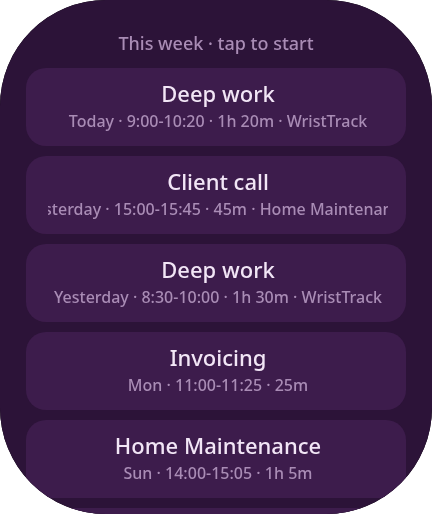
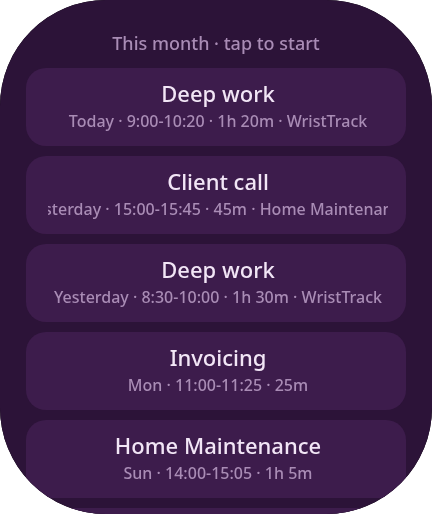
Widen the history to the past month
HISTORY_DAYS goes to 30 and the row cap to 50, so a month is actually
visible; the cap bounds what crosses Bluetooth and what the watch
stores, not what Toggl is asked for. The request budget is untouched -
the wider window is the same single read on the same six-hour lazy
clock, so a day of glances still costs 36 requests.

Past the last week a weekday name would repeat inside the window, so
dayLabel switches to a date there: 'Jul 24 · 9:15-11:15 · 2h'.

Changed region(s): [[0.2708, 0.0623, 0.7523, 0.1245]]

diff --git a/test/toggl.test.js b/test/toggl.test.js
@@ -119,7 +119,8 @@ test('a recording row says when it ran and for how long', () => {
     [
       { description: 'Review', project_id: 20, project_name: 'App', workspace_id: 10, duration: 4800, start: '2026-08-12T09:00:00Z' },
       { description: '', project_id: 20, project_name: 'App', workspace_id: 10, duration: 300, start: '2026-08-11T09:00:00Z' },
-      { description: 'Ship', workspace_id: 10, duration: 7200, start: '2026-08-07T09:00:00Z' }
+      { description: 'Ship', workspace_id: 10, duration: 7200, start: '2026-08-07T09:00:00Z' },
+      { description: 'Plan', workspace_id: 10, duration: 3600, start: '2026-07-20T09:00:00Z' }
     ],
     account,
     {},
@@ -128,12 +129,13 @@ test('a recording row says when it ran and for how long', () => {
 
   // With a description the project still gets named; without one the project
   // is already the first line, so the second line does not repeat it. The
-  // tracked range sits between the day and the length.
+  // tracked range sits between the day and the length, and past the last
+  // week the day becomes a date, since weekday names repeat inside a month.
   assert.deepEqual(
     history.map((item) => item.subtitle),
-    ['Today · 9:00-10:20 · 1h 20m · App', 'Yesterday · 9:00-9:05 · 5m', 'Fri · 9:00-11:00 · 2h']
+    ['Today · 9:00-10:20 · 1h 20m · App', 'Yesterday · 9:00-9:05 · 5m', 'Fri · 9:00-11:00 · 2h', 'Jul 20 · 9:00-10:00 · 1h']
   )
-  assert.deepEqual(history.map((item) => item.label), ['Review', 'App', 'Ship'])
+  assert.deepEqual(history.map((item) => item.label), ['Review', 'App', 'Ship', 'Plan'])
   // The fields a re-start needs survive alongside the display ones.
   assert.equal(history[0].start, '2026-08-12T09:00:00Z')
   assert.equal(history[0].duration, 4800)
@@ -150,6 +152,9 @@ test('durations and days read at wrist size', () => {
   assert.equal(dayLabel(Date.parse('2026-08-12T01:00:00Z'), now), 'Today')
   assert.equal(dayLabel(Date.parse('2026-08-11T23:00:00Z'), now), 'Yesterday')
   assert.equal(dayLabel(Date.parse('2026-08-09T12:00:00Z'), now), 'Sun')
+  // Beyond the past week a weekday would repeat, so the date takes over.
+  assert.equal(dayLabel(Date.parse('2026-08-01T12:00:00Z'), now), 'Aug 1')
+  assert.equal(dayLabel(Date.parse('2026-07-20T12:00:00Z'), now), 'Jul 20')
 
   assert.equal(clockLabel(Date.parse('2026-08-12T09:05:00Z')), '9:05')
   assert.equal(clockLabel(Date.parse('2026-08-12T17:30:00Z')), '17:30')
@@ -264,9 +269,9 @@ test('asks Toggl for an explicit history window with inline project names', () =
   // end_date is exclusive, so today's entries need tomorrow as the bound.
   assert.match(path, /end_date=2026-08-01/)
 
-  // The watch shows the past week, so that is what is asked for by default.
-  const week = recentEntriesPath(Date.parse('2026-07-31T06:00:00Z'))
-  assert.match(week, /start_date=2026-07-24/)
+  // The watch shows the past month, so that is what is asked for by default.
+  const month = recentEntriesPath(Date.parse('2026-07-31T06:00:00Z'))
+  assert.match(month, /start_date=2026-07-01/)
 })
 
 test('drops deleted and running entries from the history', () => {

diff --git a/app-side/toggl.js b/app-side/toggl.js
@@ -55,7 +55,7 @@ export function asArray(value) {
   return value && Array.isArray(value.items) ? value.items : []
 }
 
-export const HISTORY_DAYS = 7
+export const HISTORY_DAYS = 30
 
 const DAY_MS = 24 * 60 * 60 * 1000
 const isoDate = (ms) => new Date(ms).toISOString().slice(0, 10)
@@ -118,10 +118,12 @@ export function formatDuration(seconds) {
 }
 
 const WEEKDAYS = ['Sun', 'Mon', 'Tue', 'Wed', 'Thu', 'Fri', 'Sat']
+const MONTHS = ['Jan', 'Feb', 'Mar', 'Apr', 'May', 'Jun', 'Jul', 'Aug', 'Sep', 'Oct', 'Nov', 'Dec']
 
 /**
- * Which day a recording belongs to, in the phone's local time. The list only
- * reaches a week back, so a weekday name is never ambiguous for long.
+ * Which day a recording belongs to, in the phone's local time. Inside the
+ * past week a weekday name reads naturally and cannot repeat; the month
+ * reaches further back than that, so older recordings get the date instead.
  */
 export function dayLabel(startMs, now = Date.now()) {
   const start = new Date(startMs)
@@ -129,7 +131,8 @@ export function dayLabel(startMs, now = Date.now()) {
   midnight.setHours(0, 0, 0, 0)
   if (startMs >= midnight.getTime()) return 'Today'
   if (startMs >= midnight.getTime() - DAY_MS) return 'Yesterday'
-  return WEEKDAYS[start.getDay()]
+  if (startMs >= midnight.getTime() - 6 * DAY_MS) return WEEKDAYS[start.getDay()]
+  return `${MONTHS[start.getMonth()]} ${start.getDate()}`
 }
 
 /** A wall-clock stamp in the phone's local time: "9:05", "17:30". */
@@ -248,10 +251,13 @@ export function reduceAccount(me) {
   }
 }
 
-export const HISTORY_LIMIT = 20
+// Caps what crosses Bluetooth and what the watch stores, not what Toggl is
+// asked for: a busy month can outgrow it, in which case the oldest rows are
+// the ones that fall off.
+export const HISTORY_LIMIT = 50
 
 /**
- * The watch shows the past week of recordings, newest first, the way Toggl
+ * The watch shows the past month of recordings, newest first, the way Toggl
  * already returns /me/time_entries. Each row is one recording, duplicates and
  * all — the list is a history, not a menu of distinct jobs — and tapping one
  * starts that job again. The configured default is only used as a fallback

diff --git a/app-side/cache.js b/app-side/cache.js
@@ -28,7 +28,7 @@ export const REFRESH_LIMIT = HOURLY_LIMIT - MUTATION_RESERVE
 export const STATUS_MAX_AGE = 12 * 1000
 
 /**
- * The week of history barely moves, and the actions that change it from the
+ * The month of history barely moves, and the actions that change it from the
  * watch's side — stop, re-label — update the cached copy locally, so it can
  * be old without being wrong. When it does expire it is re-read lazily: the
  * cached copy is served immediately and the re-read happens in the
@@ -135,7 +135,7 @@ export const MERGE_GRACE_MS = 10 * 60 * 1000
  * no id, survives the merge rather than being silently overwritten. Only a
  * recording that ended moments ago qualifies, though: a cached row that ended
  * long ago and is absent from the fresh read was deleted in Toggl or aged out
- * of the week, and keeping it would resurrect it at the top of the list.
+ * of the window, and keeping it would resurrect it at the top of the list.
  */
 export function mergeFreshHistory(cachedHistory, freshHistory, now = Date.now()) {
   const fresh = freshHistory || []
@@ -165,7 +165,7 @@ export function entryAsPreset(running) {
 /**
  * A recording of the entry that was running, worked out locally: the start is
  * known and the stop is now, so the row Toggl would eventually report can be
- * written without re-reading the week from it.
+ * written without re-reading the month from it.
  */
 export function entryAsHistoryItem(running, now = Date.now()) {
   const startMs = parseStart(running.start)

diff --git a/app-side/index.js b/app-side/index.js
@@ -208,7 +208,7 @@ async function fetchRecent(client, token, account) {
 }
 
 /**
- * Re-reads the week of history without making anybody wait for it. The cached
+ * Re-reads the month of history without making anybody wait for it. The cached
  * copy has already been served; when this lands, the next poll picks up the
  * new list by its changed signature. Fire-and-forget is safe here: a Side
  * Service closed mid-read simply leaves the cached copy in place, and the
@@ -234,7 +234,7 @@ function lazyReloadHistory(token) {
         ...latest,
         presets: mergeFreshHistory(latest.presets, fresh.presets),
         presetsAt: Date.now(),
-        // Fresh names win; ids the new week no longer mentions keep their
+        // Fresh names win; ids the new window no longer mentions keep their
         // old name rather than losing it.
         projectNames: { ...cachedProjectNames(latest), ...fresh.projectNames }
       })
@@ -263,7 +263,7 @@ async function refreshStatus(token, cache) {
   const current = await client.request('/me/time_entries/current')
   assertCurrentToken(token)
 
-  // The week of history is re-read lazily, never on the poll's own clock —
+  // The month of history is re-read lazily, never on the poll's own clock —
   // that is what keeps a refresh to one request. The cached copy is what is
   // answered from; the re-read runs in the background when the copy has
   // expired, and its result arrives with a later poll.

diff --git a/page/home/index.page.js b/page/home/index.page.js
@@ -417,9 +417,9 @@ Page(
     },
 
     /**
-     * The week of history, every recording a row, reached by scrolling. A tap
-     * starts that job again — the row is the button, as it already is for the
-     * switch targets under the running card.
+     * The month of history, every recording a row, reached by scrolling. A
+     * tap starts that job again — the row is the button, as it already is for
+     * the switch targets under the running card.
      */
     renderReady() {
       const presets = this.state.status.presets || []
@@ -428,8 +428,8 @@ Page(
       const header = this.state.acting
         ? 'Starting'
         : note
-          ? `This week · ${note.toLowerCase()}`
-          : 'This week · tap to start'
+          ? `This month · ${note.toLowerCase()}`
+          : 'This month · tap to start'
       this.text(header, 30, 26, 18, this.state.acting ? COLORS.accent : COLORS.muted)
 
       if (presets.length === 0) {

diff --git a/setting/index.js b/setting/index.js
@@ -311,7 +311,7 @@ AppSettingsPage({
 
         hasToken &&
           card('Timer defaults', [
-            bodyText('The watch shows your past week of Toggl recordings. These defaults only kick in when there is no history yet.'),
+            bodyText('The watch shows your past month of Toggl recordings. These defaults only kick in when there is no history yet.'),
             field(
               'Default description',
               null,

diff --git a/README.md b/README.md
@@ -34,7 +34,7 @@ question. See [Staying in sync](#staying-in-sync) for why that matters.
 - Picks up timers started, stopped or re-labelled somewhere else — the Toggl
   phone app, the web app, the browser extension — usually within 15 seconds.
 - Starts and stops timers against Toggl Track API v9.
-- Shows your past week of recordings as a scrolling list, newest first, each
+- Shows your past month of recordings as a scrolling list, newest first, each
   row saying which day it ran, over what times, and for how long. Tap a
   recording to start that job again.
 - Re-labels a running timer in place: tap a job below the clock and the
@@ -93,12 +93,12 @@ The Side Service holds the second cache, and meters what reaches Toggl:
 
 - **Reads are served from cache.** A status check inside a 12-second window
   costs nothing. Opening the app twice in a minute is one request, not four.
-- **The week of history is cached for hours and re-read lazily.** It barely
+- **The month of history is cached for hours and re-read lazily.** It barely
   moves on its own — the things that change it from the watch are stops and
   re-labels, and those update the cached copy locally — so it is kept for six
   hours, and a routine poll stays a single request: the one asking what is
   running. When the copy does expire, it is served anyway and the re-read runs
-  in the background; the refreshed week arrives with a later poll instead of
+  in the background; the refreshed month arrives with a later poll instead of
   making any glance wait.
 - **Background checks may spend only 18 of the 30.** The remaining 12 are held
   back so start and stop still work at the end of a long session. A screen left
@@ -108,7 +108,7 @@ The Side Service holds the second cache, and meters what reaches Toggl:
   reserve survives.
 - **Actions compute their own result.** Toggl has already confirmed a stop, so
   the finished run is written to the top of the history locally — its start is
-  known and its stop is now — instead of re-reading the week. Stopping and
+  known and its stop is now — instead of re-reading the month. Stopping and
   re-labelling cost one request each, down from two and three; starting costs
   two, down from three. A stop noticed from elsewhere gets the same local
   write, plus a background re-read to catch anything else tracked away from
@@ -128,7 +128,7 @@ heavy hour of ten glances spends **12 of the 18** allowed. `test/side-service.te
 drives both of those against the real code.
 
 Worth being precise about where the win is: a glance half an hour after the
-last one costs one request — the status check — because the week of history
+last one costs one request — the status check — because the month of history
 answers from its own long cache. What the cache buys is that a second look
 inside the same glance is free, that actions cost less, and that the history
 is re-read a handful of times a day instead of on a half-hour clock. The limit
@@ -208,10 +208,11 @@ black screen; see *A black screen after install* below.
 
 Open **WristTrack** from the watch's app list.
 
-- **This week** — your past week of recordings, newest first, each row saying
-  which day it ran, over what times, and for how long — `Today · 9:00-10:20 ·
-  1h 20m · WristTrack`. Scroll down for the rest of the week; tap a recording
-  to start that job again.
+- **This month** — your past month of recordings, newest first, each row
+  saying which day it ran, over what times, and for how long — `Today ·
+  9:00-10:20 · 1h 20m · WristTrack`, with dates such as `Jul 24` past the last
+  week. Scroll down for the rest of the month; tap a recording to start that
+  job again.
 - **Running** — the pink card shows the live clock. The jobs below it are
   one-tap switches: tapping one re-labels the running entry without resetting
   the clock. Tap the card itself for the full list.
@@ -238,7 +239,7 @@ Your phone must be paired and online at the moment you press start or stop.
 | **Phone is offline or Toggl is unavailable.** | The phone lost its data connection, or Bluetooth to the watch dropped. |
 | **A timer is already running.** | Toggl already has a running entry. Refresh to pick it up. |
 | **Phone link is still starting.** | The watch app opened before the phone connection was ready. Press the button again. |
-| **Nothing tracked yet** | No entries in the last week. Track something once, from Toggl or the watch. |
+| **Nothing tracked yet** | No entries in the last month. Track something once, from Toggl or the watch. |
 
 ## "Send package to device failed"
 

diff --git a/docs/screens/README.md b/docs/screens/README.md
@@ -7,7 +7,7 @@ tree that `page/home/index.page.js` produces. Regenerate with `npm run screens`.
 - **Syncing, with the reason** — When the watch had nothing to draw, the spinner says why — so a storage failure, which would otherwise look exactly like a first launch, is visible without attaching the developer bridge. (`01c-syncing-reason.png`)
 - **Restored on launch** — Every launch after the first: the watch draws its saved screen immediately and marks it unconfirmed until the phone answers, usually within a second. (`01b-restored.png`)
 - **Connect Toggl** — No API token saved in Zepp yet. (`02-connect-toggl.png`)
-- **Ready** — Connected, no timer running, the past week of recordings as a scrolling list. A tap starts that job again. (`03-ready.png`)
+- **Ready** — Connected, no timer running, the past month of recordings as a scrolling list. A tap starts that job again. (`03-ready.png`)
 - **Ready, entry with no description** — Many Toggl entries are project-only; the project becomes the label. (`04b-ready-no-description.png`)
 - **Starting** — A recording tapped, waiting on Toggl. (`05-starting.png`)
 - **Running** — A timer is running; the elapsed time ticks once a second. (`06-running.png`)

diff --git a/STORE.md b/STORE.md
@@ -12,7 +12,7 @@ Start and stop your Toggl Track timer from an Amazfit Bip Max.
 
 WristTrack puts the essential Toggl Track timer controls on your wrist. View
 the running entry, elapsed time, and project; stop it with one tap; or browse
-your past week of recordings and start any of them again.
+your past month of recordings and start any of them again.
 
 The integration is serverless. Your paired phone communicates directly with
 Toggl Track over HTTPS, and your personal token is never sent to the watch or
